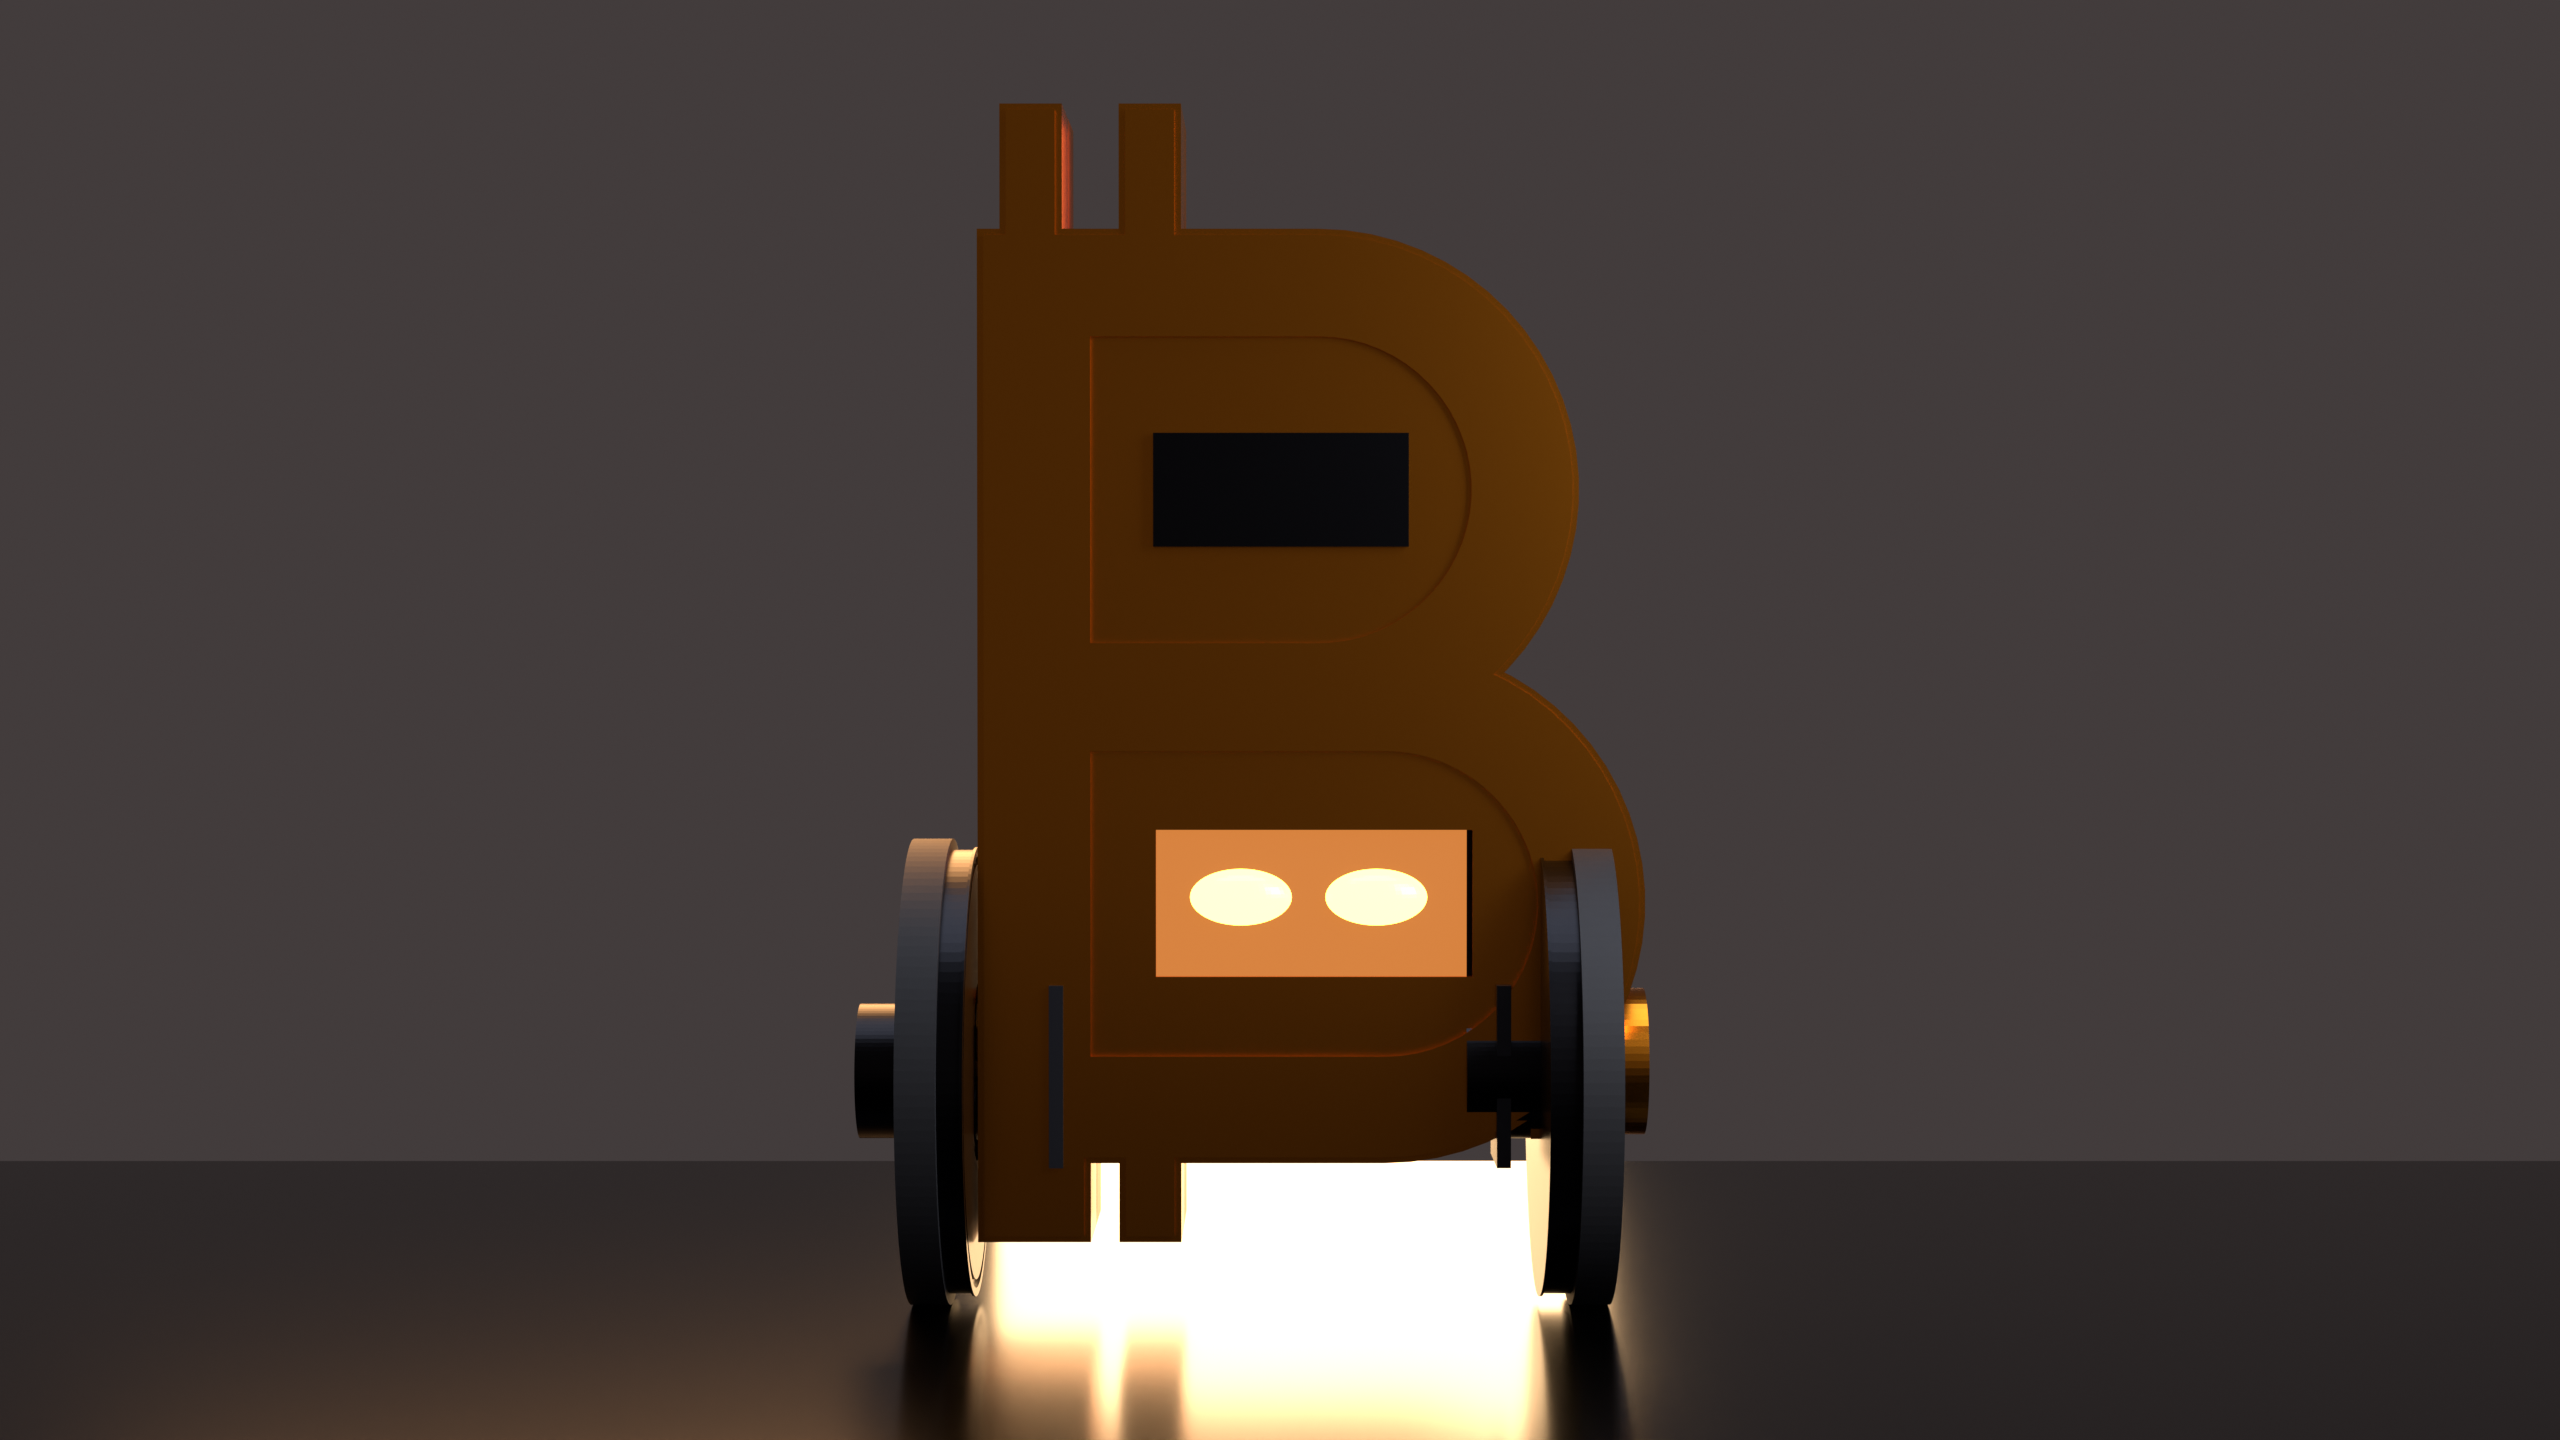
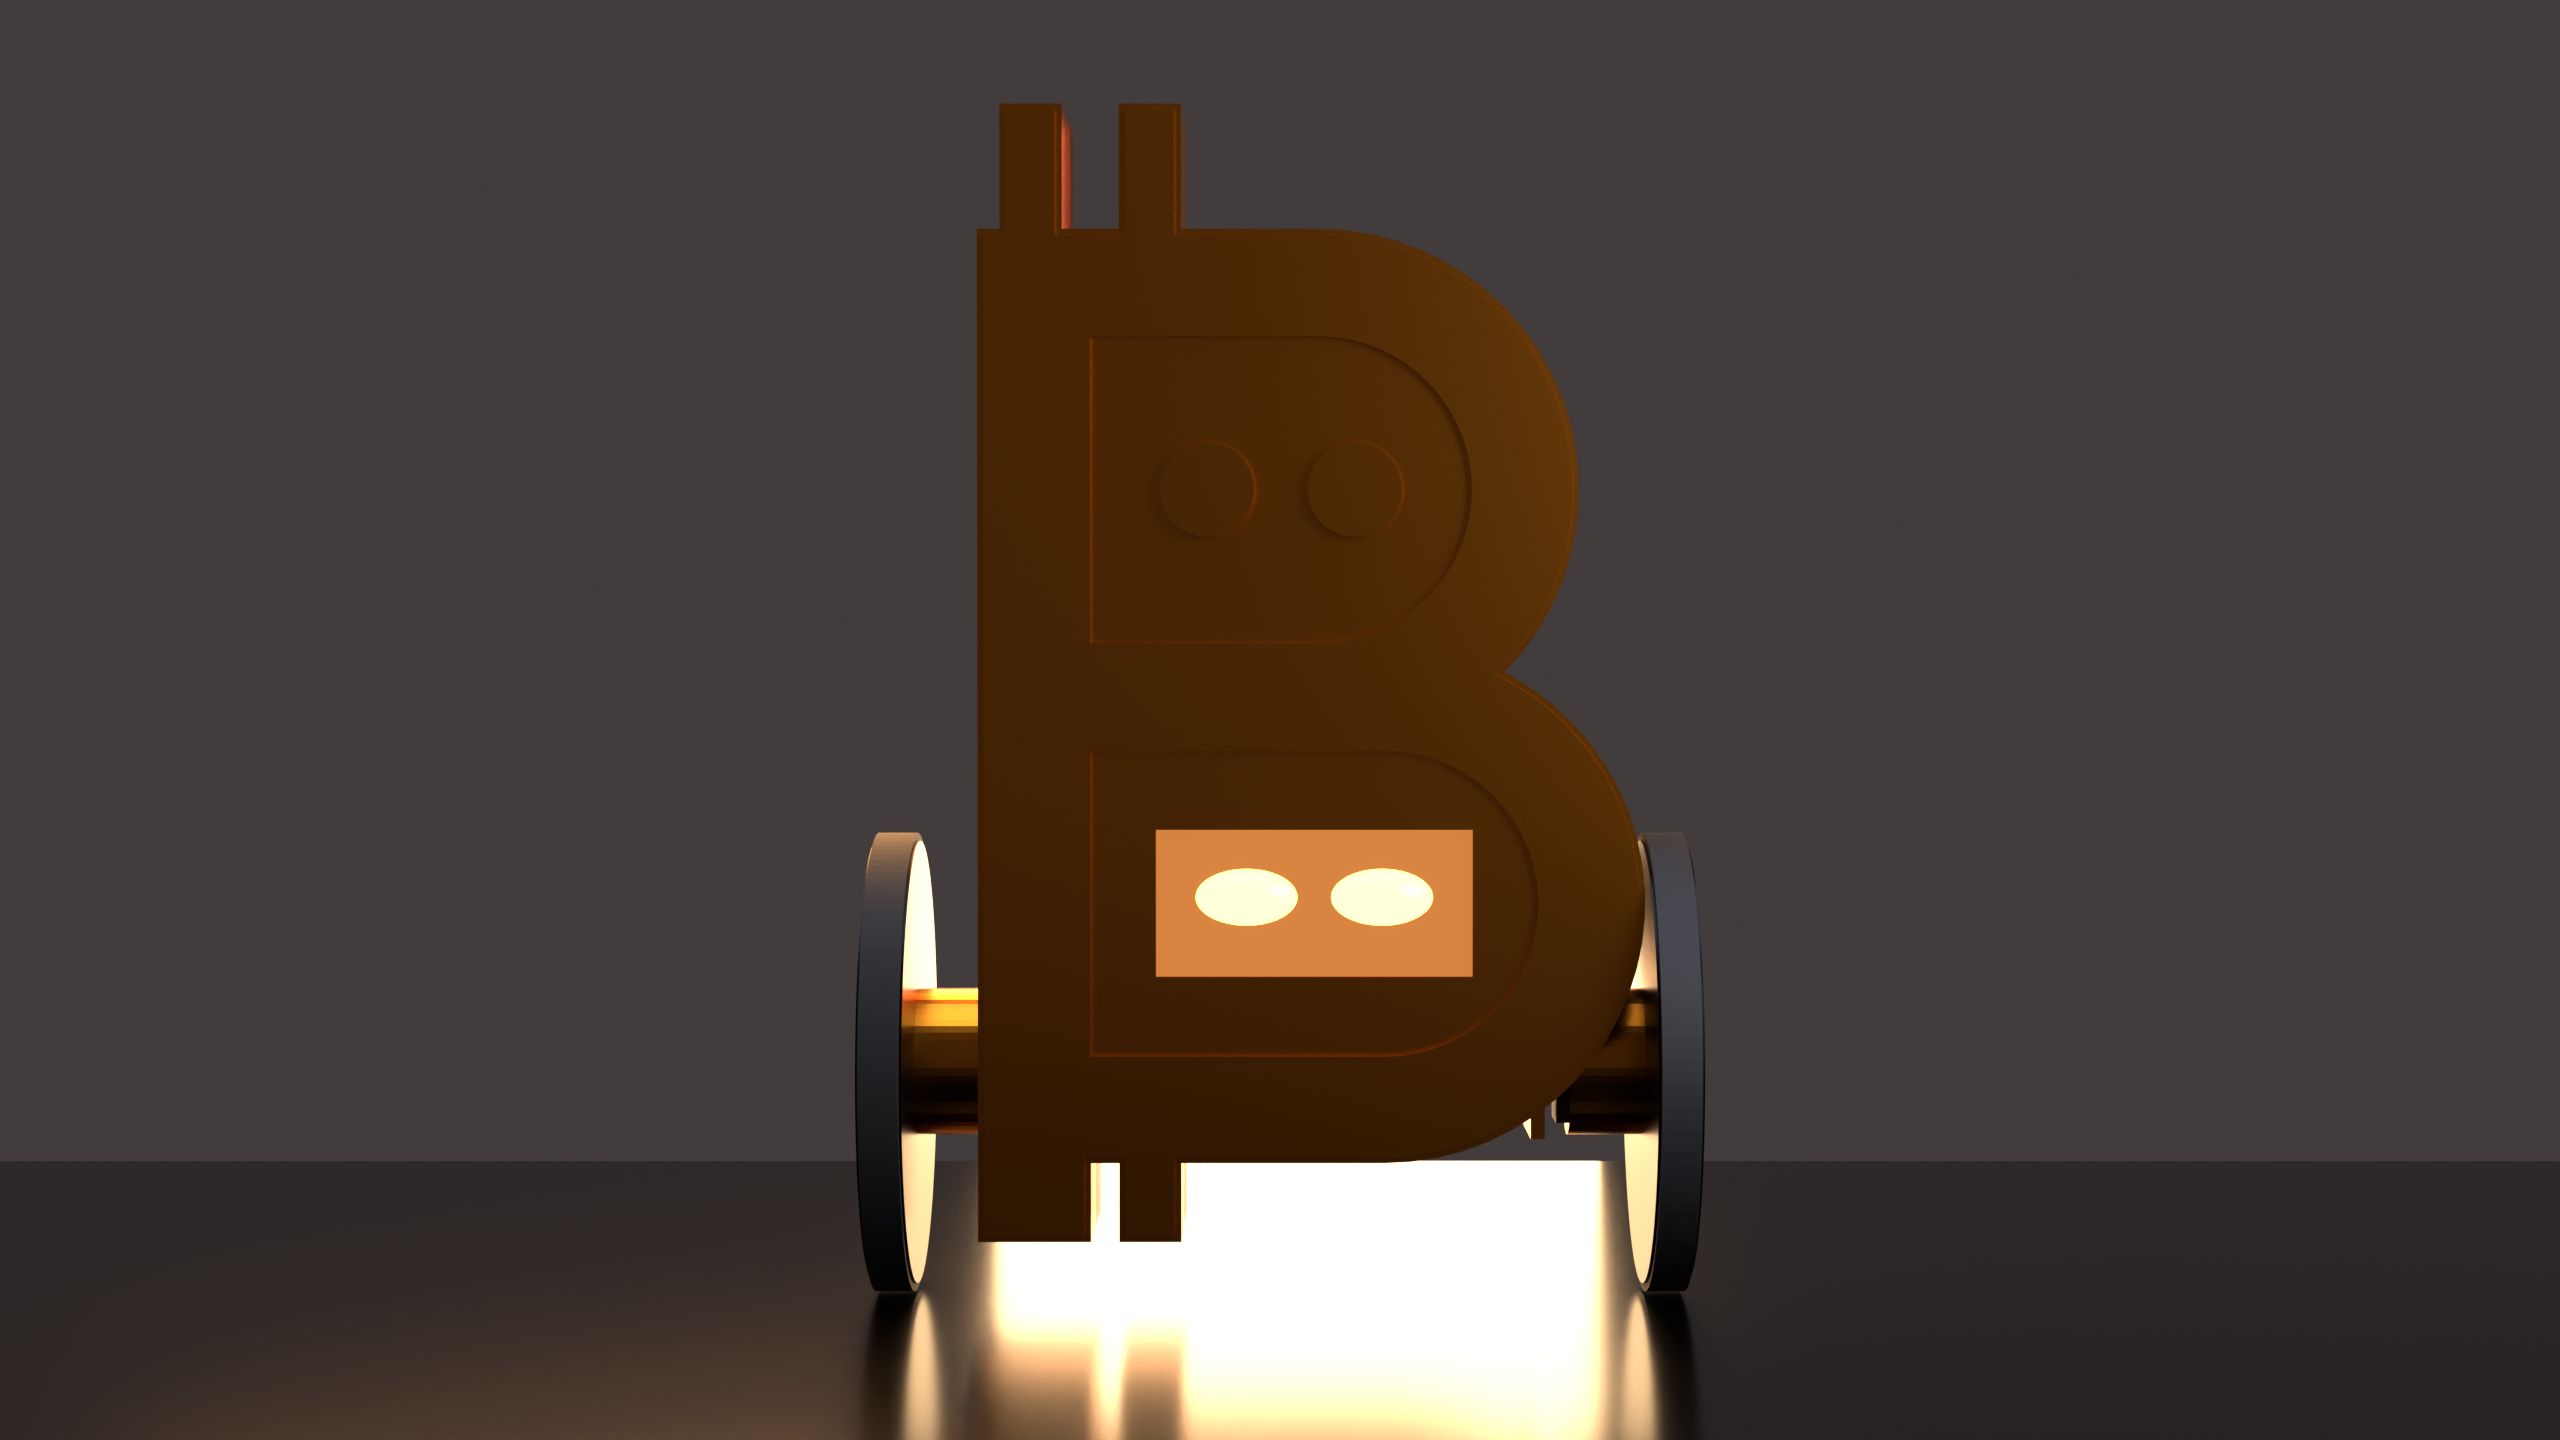
Rendu : placement EXACT des pièces (roues, servos, MPU, écran) d'après le générateur
Les placements étaient reconstitués approximativement et faux :
- axe des roues à z=41.5 au lieu de 42.0 (= WHEEL_R) ;
- roues à x=10.6/118.6 (voie 108) et y=12.8, alors que la source les met à
  x=-8.87 et 138.00, y=0 (l'axe est dans le plan de joint), moyeu vers
  l'intérieur ; le moyeu gauche était en plus retourné ;
- bandes TPU décalées de 4.5 mm hors de la jante (elles sont centrées dessus) ;
- 2 servos de tête et une batterie qui N'EXISTENT PAS dans le châssis (inventés) ;
- MPU à x=53.5/y=10 alors que GW-MPU_X = 80 et qu'il est centré en y=0 ;
- écran/PCB à x=58.5 (counter_center(LOW) miroir), HC-SR04 décalé.

Les valeurs sont maintenant lues dans gen_bitcoin_bot.py (constantes + sa
fonction assemblage_pour_rendu), vérifiées en mesurant les boîtes englobantes
de la scène : roue_D x∈[-8.87,12.14], roue_G x∈[116.98,138.00],
pneus x∈[-8.37,-1.37] et [130.50,137.50], servos z∈[36.1,58.9], MPU dessus z=42.
Rotation des roues passée en quaternions (spin autour de l'axe X).

Ajout de chassis/assets/encoder_cinematique.sh (MP4 H.264 via ffmpeg
imageio-ffmpeg : le Blender de la machine n'a pas de support FFmpeg).

diff --git a/chassis/assets/cinematique.py b/chassis/assets/cinematique.py
@@ -16,7 +16,7 @@ import os
 import sys
 
 import bpy
-from mathutils import Vector
+from mathutils import Quaternion, Vector
 
 ROOT = os.path.dirname(os.path.dirname(os.path.dirname(os.path.abspath(__file__))))
 V3 = os.path.join(ROOT, "chassis", "v3")
@@ -26,11 +26,24 @@ os.makedirs(OUT, exist_ok=True)
 argv = sys.argv[sys.argv.index("--") + 1:] if "--" in sys.argv else []
 MODE = argv[0] if argv else "still"
 
-# ── cotes du projet ───────────────────────────────────────────────────────
-Z_WHEEL, Y_WHEEL = 41.5, 12.8
-X_MID, TRACK = 64.57, 108.0
-Z_SCREEN, X_SCREEN = 72.0, 59.5
-Z_HEAD, X_HEAD, SR_PITCH = 145.0, 64.4, 26.0
+# ── cotes du projet — SOURCE : chassis/gen_bitcoin_bot.py ─────────────────
+# AXLE_Z = WHEEL_R = WHEEL_D/2 − GROOVE_D + TIRE_T = 40 − 0.5 + 2.5 = 42.0
+AXLE_Z = 42.0
+X_MID = 64.57          # centre de l'enveloppe du corps (mesuré sur b_front)
+Y_AXLE = 0.0           # l'axe des roues est dans le plan de joint (y = 0)
+# Roues : origine = FACE EXTERNE du disque imprimé (cf. assemblage_pour_rendu) ; le
+# moyeu (13 mm) part vers l'intérieur, son bout tombe sur le plan de la paroi
+# (xL = GW − x_wall_R + 1 = 12.13 ; xR = GW − 1 = 117.0).
+# « D » = côté paroi courbe (x≈11) ; « G » = côté spine (x≈118).
+ROUE = {"D": (-8.87, +1), "G": (138.00, -1)}       # (x origine, sens du moyeu)
+PNEU = {"D": -8.37, "G": 137.50}                   # origine de la bande TPU
+SERVO = {"D": 24.93, "G": 104.35}                  # x du centre du corps de servo
+SERVO_BRIDE = {"D": 13.53, "G": 115.60}            # x de la platine (côté sortie)
+SERVO_Z = 47.50                # corps z∈[36.1, 58.9] → arbre à 42 (= axe)
+X_SCREEN, Z_SCREEN = 58.5, 72.0    # counter_center(LOW) → miroir : 118 − 59.5
+X_HEAD, Z_HEAD, SR_PITCH = 64.4, 145.0, 26.0       # counter_center(HIGH) miroir
+MPU_CENTRE = (80.0, 0.0, 41.0)     # GW − MPU_X = 80 ; dessus du piédestal à z=42
+Z_WHEEL, Y_WHEEL = AXLE_Z, Y_AXLE  # alias (noms historiques)
 FPS = 30
 F_ORBITE_END, F_ECLATE_END, F_REMONTE_END, F_FIN = 240, 420, 570, 780
 
@@ -108,63 +121,61 @@ def importer(nom, fichier, mat):
 supprimer_tout()
 
 # ══════════════════════════════════════════════════════════════════════════
-# ensemble mécanique — positions assemblées (A) et éclatées (E)
+# ensemble mécanique — placement aux cotes EXACTES du générateur de châssis
 # ══════════════════════════════════════════════════════════════════════════
-PIVOT = (X_MID, Y_WHEEL, Z_WHEEL)
+PIVOT = (X_MID, Y_AXLE, AXLE_Z)          # axe d'équilibrage = axe des roues
 
-# corps = tout sauf les roues, parenté à un pivot placé sur l'axe des roues
 corps = []
 front = importer("b_front", os.path.join(V3, "b_front.stl"), M_ORANGE)
 back = importer("b_back", os.path.join(V3, "b_back.stl"), M_ORANGE_FONCE)
 corps += [front, back]
 
+# T-Display S3 : PCB 62 × 26 dans sa poche, dalle dans la fenêtre 56 × 26 (lcz = 72)
 carte = boite("carte", (62.0, 1.2, 26.0), (X_SCREEN, 18.0, Z_SCREEN), M_NOIR)
 ecran = boite("ecran", (56.0, 0.5, 26.0), (X_SCREEN, 19.2, Z_SCREEN), M_ECRAN)
-# yeux : deux amandes émissives sur l'écran
+# yeux : deux amandes émissives devant la dalle (le visage du firmware)
 yeux = []
 for sx in (-1, 1):
     bpy.ops.mesh.primitive_uv_sphere_add(segments=48, ring_count=24, radius=1.0,
-                                        location=(X_SCREEN + sx * 12.0, 19.6, Z_SCREEN + 1.0))
+                                        location=(X_SCREEN + sx * 12.0, 19.9, Z_SCREEN + 1.0))
     o = bpy.context.object
     o.name = f"oeil_{'G' if sx > 0 else 'D'}"
     o.scale = (9.0, 4.0, 5.0)
     habiller(o, M_YEUX)
     yeux.append(o)
 
-mpu = boite("mpu", (21.0, 16.0, 3.0), (X_SCREEN - 6.0, 10.0, 38.0), M_SERVO)
-hc = boite("hc_sr04", (45.0, 1.6, 20.0), (X_HEAD, 23.0, Z_HEAD), M_NOIR)
+# MPU6050 : piédestal dont le dessus est à z = 42 (l'axe de tangage), centré en y = 0
+mpu = boite("mpu", (21.0, 16.0, 2.0), MPU_CENTRE, M_SERVO)
+# HC-SR04 : PCB 45 × 20 debout derrière les 2 trous Ø16,6 (entraxe 26) de la baie haute
+hc = boite("hc_sr04", (45.0, 1.6, 20.0), (X_HEAD, 12.0, Z_HEAD), M_NOIR)
 transducteurs = []
 for sx in (-1, 1):
-    transducteurs.append(cylindre(f"transducteur_{'D' if sx < 0 else 'G'}", 8.0, 12.0,
+    transducteurs.append(cylindre(f"transducteur_{'D' if sx < 0 else 'G'}", 8.3, 12.0,
                                   (X_HEAD + sx * SR_PITCH / 2, 17.6, Z_HEAD), M_ORANGE, "Y"))
 corps += [carte, ecran, mpu, hc] + transducteurs + yeux
 
-servos_pied = []
-for cote, sx in (("D", -1), ("G", 1)):
-    socle = X_MID + sx * (TRACK / 2 - 13.0 - 1.5)
-    servos_pied.append(boite(f"servo_pied_{cote}", (22.5, 12.2, 22.8),
-                             (socle - sx * 11.25, Y_WHEEL, Z_WHEEL), M_SERVO))
-    servos_pied.append(boite(f"servo_pied_{cote}_bride", (2.5, 22.8, 32.2),
-                             (socle, Y_WHEEL, Z_WHEEL), M_SERVO))
-corps += servos_pied
+# 2 servos de roue (le design n'en comporte aucun autre) : couchés, axe selon X,
+# corps dans la cavité (z 36,1 → 58,9 ; arbre à 42), sortie au travers de la paroi.
+servos = []
+for cote in ("D", "G"):
+    servos.append(boite(f"servo_pied_{cote}", (22.5, 12.2, 22.8),
+                        (SERVO[cote], Y_AXLE, SERVO_Z), M_SERVO))
+    servos.append(boite(f"servo_pied_{cote}_bride", (2.5, 12.2, 32.2),
+                        (SERVO_BRIDE[cote], Y_AXLE, SERVO_Z), M_SERVO))
+corps += servos
 
-for i, sx in enumerate((-1, 1)):
-    corps.append(boite(f"servo_tete_{i}", (12.2, 22.8, 22.5),
-                       (X_HEAD + sx * 14.0, 2.0, Z_HEAD + 22.0), M_SERVO))
-
-batterie = boite("batterie", (60.0, 18.0, 26.0), (X_MID, -12.0, 70.0), M_NOIR)
-corps.append(batterie)
-
-# roues (hors corps : elles tournent)
+# roues et bandes TPU — positions du générateur ; elles tournent autour de l'axe X
 roues, pneus = [], []
-for cote, sx in (("D", -1), ("G", 1)):
-    x = X_MID + sx * (TRACK / 2)
+for cote in ("D", "G"):
+    x, sens = ROUE[cote]
     r = importer(f"roue_{cote}", os.path.join(V3, "coin_wheel.stl"), M_NOIR)
-    r.rotation_euler = (0, math.pi / 2, 0)
-    r.location = (x, Y_WHEEL, Z_WHEEL)
+    r.rotation_mode = "QUATERNION"
+    r.rotation_quaternion = Quaternion((0, 1, 0), sens * math.pi / 2)
+    r.location = (x, Y_AXLE, AXLE_Z)
     p = importer(f"pneu_{cote}", os.path.join(V3, "coin_tire.stl"), M_CAOUT)
-    p.rotation_euler = (0, math.pi / 2, 0)
-    p.location = (x + sx * 4.5, Y_WHEEL, Z_WHEEL)
+    p.rotation_mode = "QUATERNION"
+    p.rotation_quaternion = Quaternion((0, 1, 0), sens * math.pi / 2)
+    p.location = (PNEU[cote], Y_AXLE, AXLE_Z)
     roues.append(r)
     pneus.append(p)
 
@@ -186,15 +197,12 @@ ECLATE = {
     "hc_sr04": Vector((0, 52, 0)),
     "transducteur_D": Vector((0, 66, 0)),
     "transducteur_G": Vector((0, 66, 0)),
-    "batterie": Vector((0, -46, 0)),
     "oeil_G": Vector((0, 74, 0)),
     "oeil_D": Vector((0, 74, 0)),
-    "servo_pied_D": Vector((-42, 22, 0)),
-    "servo_pied_D_bride": Vector((-30, 22, 0)),
-    "servo_pied_G": Vector((42, 22, 0)),
-    "servo_pied_G_bride": Vector((30, 22, 0)),
-    "servo_tete_0": Vector((0, 58, 26)),
-    "servo_tete_1": Vector((0, 58, 26)),
+    "servo_pied_D": Vector((-34, 22, 0)),
+    "servo_pied_D_bride": Vector((-24, 22, 0)),
+    "servo_pied_G": Vector((34, 22, 0)),
+    "servo_pied_G_bride": Vector((24, 22, 0)),
     "roue_D": Vector((-58, 0, 0)),
     "roue_G": Vector((58, 0, 0)),
     "pneu_D": Vector((-92, 0, 0)),
@@ -301,7 +309,7 @@ def placer_camera(angle_deg, distance, hauteur, cible_hauteur=104):
 # ══════════════════════════════════════════════════════════════════════════
 if MODE == "still":
     configurer_moteur()
-    scene.cycles.samples = 256
+    scene.cycles.samples = 128
     scene.render.resolution_x = 2560
     scene.render.resolution_y = 1440
     placer_camera(0.0, 800, 120, 104)
@@ -347,22 +355,20 @@ for nom, obj in pieces.items():
         obj.keyframe_insert("location", frame=f)
 
 # phase D : le robot fonctionne
-# roues qui tournent
-for r in roues:
-    base = r.rotation_euler.copy()
+# roues qui tournent autour de l'axe X (quaternions : la base oriente la roue,
+# la rotation d'avant appliquée à gauche fait tourner autour de l'axe des roues)
+for r, cote in ((roues[0], "D"), (roues[1], "G"), (pneus[0], "D"), (pneus[1], "G")):
+    sens = ROUE[cote][1]
+    base = Quaternion((0, 1, 0), sens * math.pi / 2)
     for f, tours in ((F_REMONTE_END, 0.0), (F_REMONTE_END + 90, 1.0), (F_FIN, 3.2)):
-        r.rotation_euler = (base[0] + tours * 2 * math.pi, base[1], base[2])
-        r.keyframe_insert("rotation_euler", frame=f)
+        r.rotation_quaternion = Quaternion((1, 0, 0), tours * 2 * math.pi) @ base
+        r.keyframe_insert("rotation_quaternion", frame=f)
 # équilibrage : le corps tangue doucement autour de l'axe des roues
 for f, deg in ((F_REMONTE_END, 0), (F_REMONTE_END + 45, 3.2), (F_REMONTE_END + 90, -3.0),
                (F_REMONTE_END + 135, 2.2), (F_FIN, 0.0)):
     pivot.rotation_euler = (math.radians(deg), 0, 0)
     pivot.keyframe_insert("rotation_euler", frame=f)
-# tête qui balaie
-for o in (hc, transducteurs[0], transducteurs[1]):
-    for f, deg in ((F_REMONTE_END, 0), (F_REMONTE_END + 60, 11), (F_REMONTE_END + 120, -11), (F_FIN, 0)):
-        o.rotation_euler = (0, 0, math.radians(deg))
-        o.keyframe_insert("rotation_euler", frame=f)
+# (pas de balayage de tête : le châssis ne comporte que les 2 servos de roue)
 # clignement des yeux
 for o in yeux:
     base = o.scale.copy()
